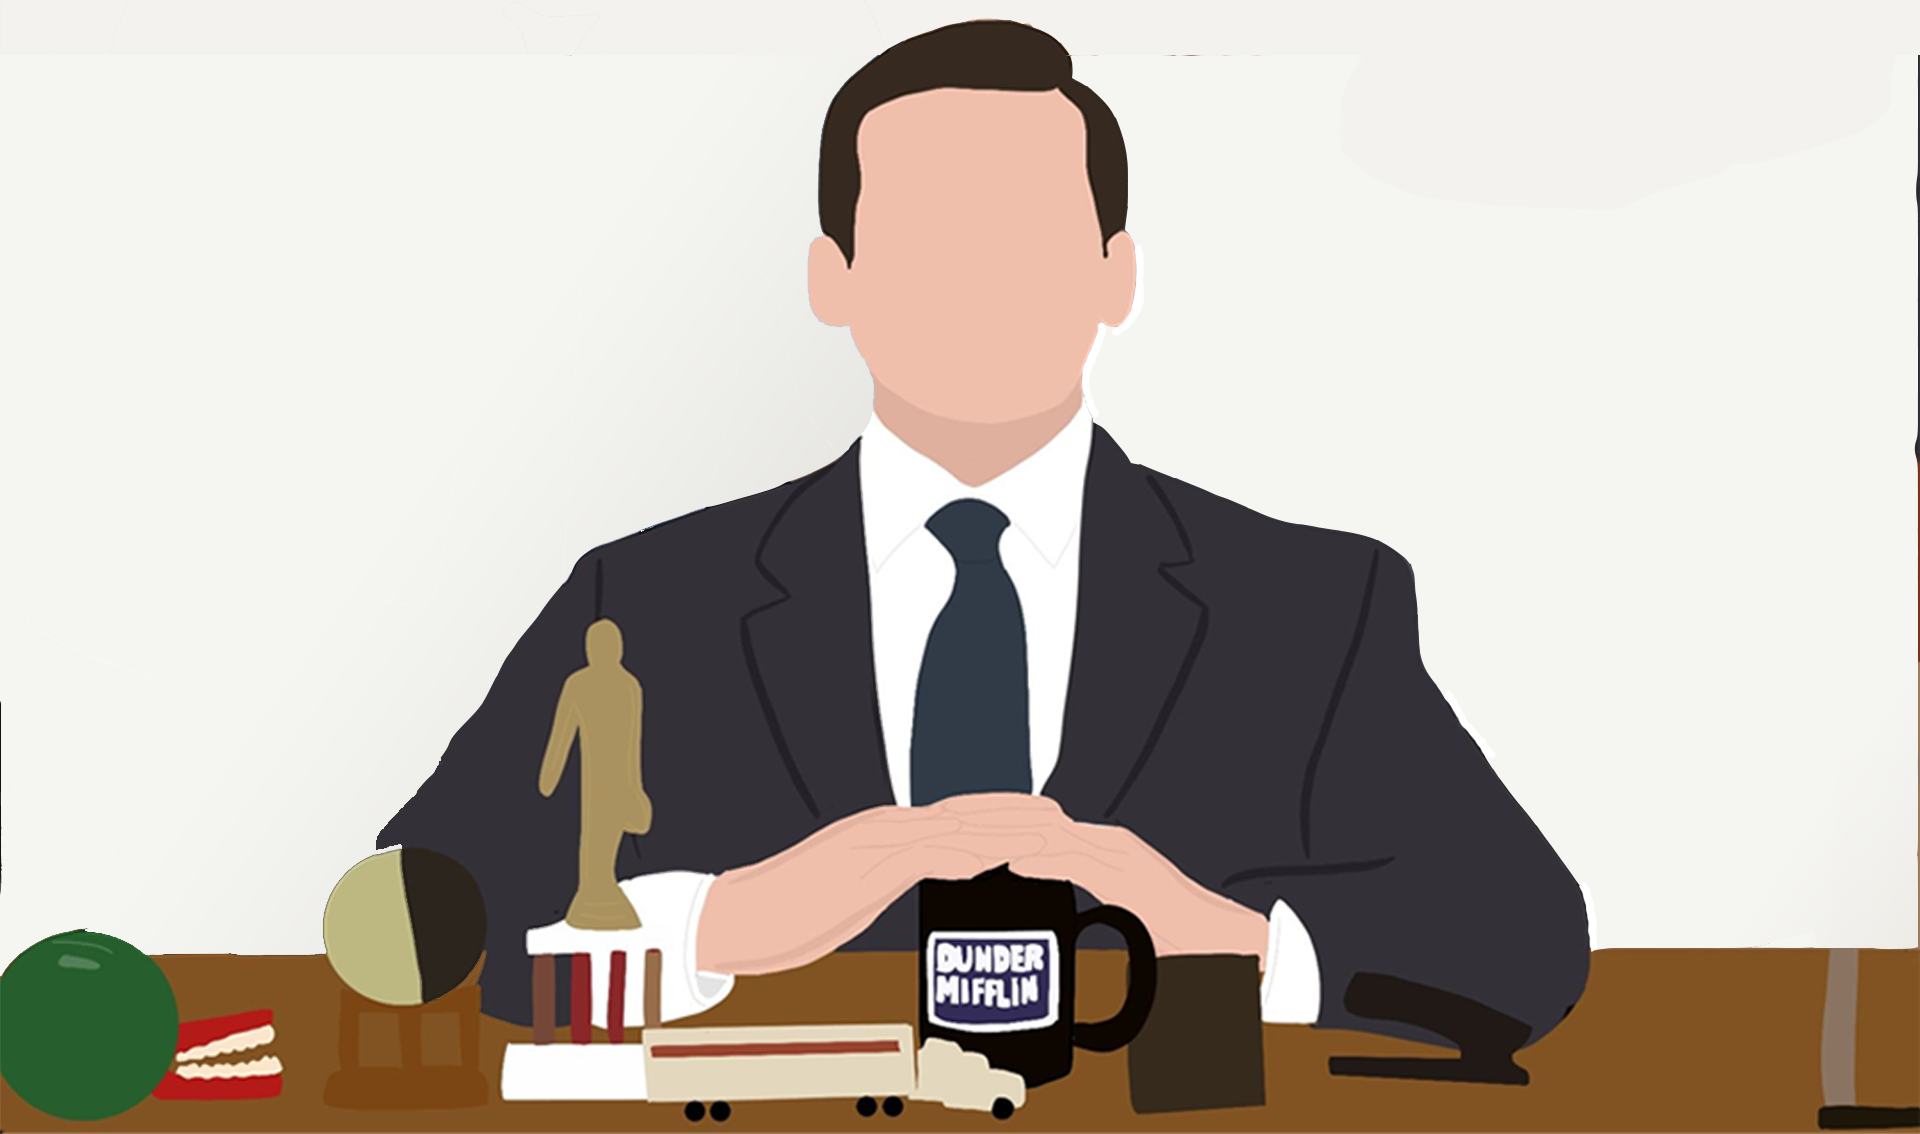
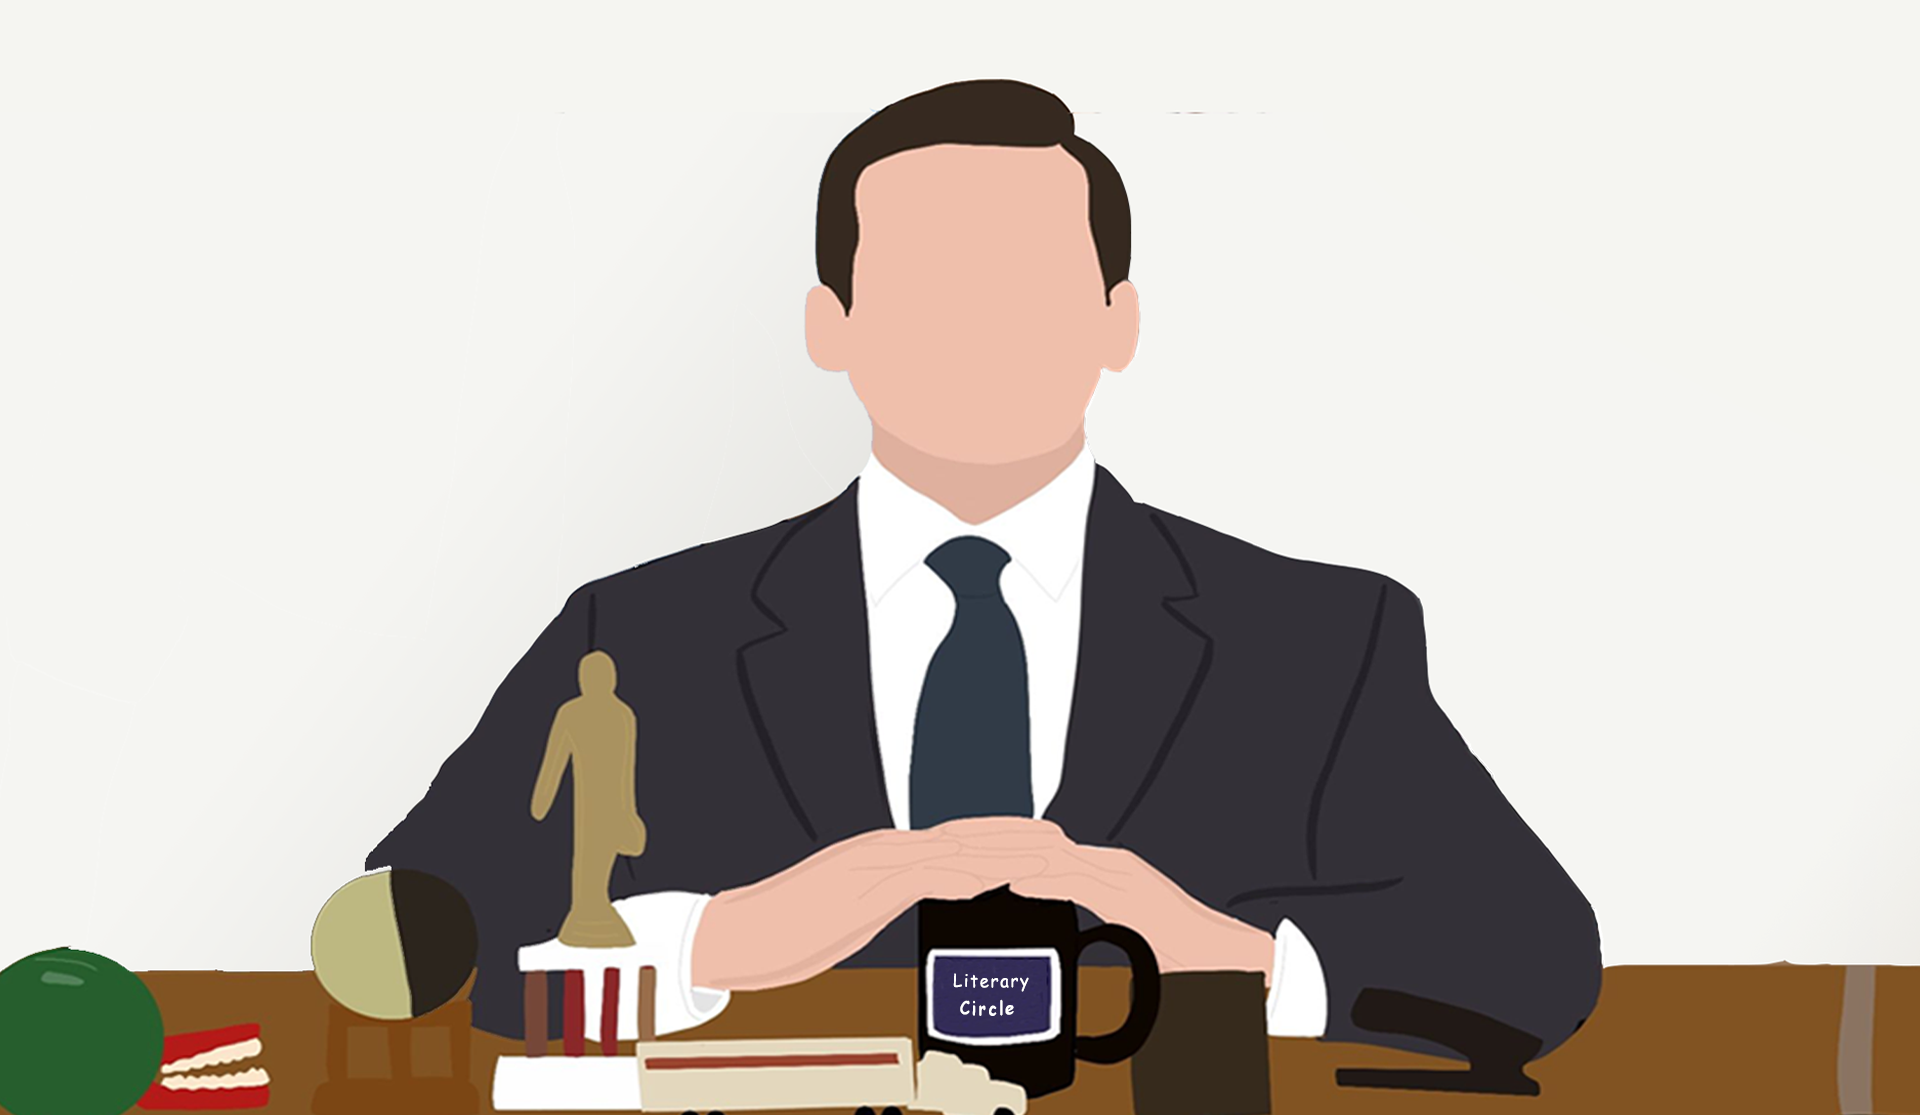
changed

diff --git a/client/src/components/AdminPanel/EditableComponent.js b/client/src/components/AdminPanel/EditableComponent.js
@@ -90,16 +90,16 @@ class EditableComponent extends Component {
       },
     });
   }
-  onFieldRemoveClick(index){
-      const newFields = [...this.state.value.fields];
-      newFields.splice(index,1);
-      this.setState({
-        ...this.state,
-        value: {
-          ...this.state.value,
-          fields: newFields,
-        },
-      });
+  onFieldRemoveClick(index) {
+    const newFields = [...this.state.value.fields];
+    newFields.splice(index, 1);
+    this.setState({
+      ...this.state,
+      value: {
+        ...this.state.value,
+        fields: newFields,
+      },
+    });
   }
   renderSubQuestionField(element, index) {
     const { type } = element;
@@ -226,28 +226,33 @@ class EditableComponent extends Component {
       const { options } = this.state.value;
 
       return (
-        <Form.Row>
-          <Form.Group as={Col}>
-            <Form.Label as="legend" sm={2}>
-              Minimum Value
-            </Form.Label>
-            <Form.Control
-              value={options[0]}
-              type="Number"
-              onChange={(e) => this.onChangeOptionName(e.target.value, 0)}
-            />
-          </Form.Group>
-          <Form.Group as={Col}>
-            <Form.Label as="legend">Maximum Value</Form.Label>
-            <Form.Control
-              value={options[1]}
-              type="Number"
-              onChange={(e) => {
-                this.onChangeOptionName(e.target.value, 1);
-              }}
-            />
-          </Form.Group>
-        </Form.Row>
+        <Form.Group as={Row}>
+          <Form.Label as="legend" column sm={2}>
+            Options
+          </Form.Label>
+          <Row sm={10}>
+            <Form.Group as={Col}>
+              <Form.Label as="legend" column >
+                Minimum Value
+              </Form.Label>
+              <Form.Control
+                value={options[0]}
+                type="Number"
+                onChange={(e) => this.onChangeOptionName(e.target.value, 0)}
+              />
+            </Form.Group>
+            <Form.Group as={Col}>
+              <Form.Label column as="legend">Maximum Value</Form.Label>
+              <Form.Control
+                value={options[1]}
+                type="Number"
+                onChange={(e) => {
+                  this.onChangeOptionName(e.target.value, 1);
+                }}
+              />
+            </Form.Group>
+          </Row>
+        </Form.Group>
       );
     } else {
       // type of subquestion :
@@ -306,7 +311,7 @@ class EditableComponent extends Component {
     this.props.deleteFormElement(this.state.value._id);
   }
   onClickSave() {
-      console.log(this.state.value);
+    console.log(this.state.value);
     this.props.editFormElement(this.state.value);
   }
   onFileUpload(e) {
@@ -326,7 +331,7 @@ class EditableComponent extends Component {
     reader.readAsDataURL(file);
   }
   render() {
-    const { content,_id } = this.state.value;
+    const { content, _id } = this.state.value;
     // console.log(this.state);
     return (
       <div className="EditableComponent">

diff --git a/client/public/index.html b/client/public/index.html
@@ -2,8 +2,8 @@
 <html lang="en">
   <head>
     <meta charset="utf-8" />
-    <link rel="icon" href="%PUBLIC_URL%/favicon.ico" />
     <meta name="viewport" content="width=device-width, initial-scale=1" />
+    <link rel="icon" type="image/png" href="favicon.ico"/>
     <meta name="theme-color" content="#000000" />
     <meta
       name="description"
@@ -14,12 +14,12 @@
       href="https://fonts.googleapis.com/css2?family=Marcellus&display=swap"
       rel="stylesheet"
     />
-    <link rel="apple-touch-icon" href="%PUBLIC_URL%/logo192.png" />
     <!--
       manifest.json provides metadata used when your web app is installed on a
       user's mobile device or desktop. See https://developers.google.com/web/fundamentals/web-app-manifest/
     -->
     <link rel="manifest" href="%PUBLIC_URL%/manifest.json" />
+    
     <!--
       Notice the use of %PUBLIC_URL% in the tags above.
       It will be replaced with the URL of the `public` folder during the build.
@@ -29,7 +29,7 @@
       work correctly both with client-side routing and a non-root public URL.
       Learn how to configure a non-root public URL by running `npm run build`.
     -->
-    <title>React App</title>
+    <title>Literary Circle : Auditions</title>
   </head>
   <body>
     <noscript>You need to enable JavaScript to run this app.</noscript>

diff --git a/client/src/components/Profile.js b/client/src/components/Profile.js
@@ -38,13 +38,11 @@ function Profile(props) {
   console.log(user);
   return (
     <div class="Profile">
-      <Row>
-        <Col md={3} lg={2}>
+        <Col>
           <div className="profile_photo">
             <img src={user.image} className="photo" />
           </div>
         </Col>
-        <Col md={9} lg={10}>
           {arr.map((element, index) => {
             //   console.log(element, form[element]);
             const Name = `${capitalizeFirstLetter(element)}${
@@ -79,8 +77,6 @@ function Profile(props) {
               <span className="google_text">EDIT</span>
             </Link>
           </div>
-        </Col>
-      </Row>
     </div>
   );
 }

diff --git a/client/src/components/Profile.css b/client/src/components/Profile.css
@@ -1,5 +1,5 @@
 .Profile {
-  width: 400px;
+  width: 500px;
 }
 
 .button-edit .btn {
@@ -15,9 +15,9 @@
   color: rgb(102 102 119);
 }
 
-@media only screen and (max-width: 400px) {
+@media only screen and (max-width: 500px) {
   .Profile {
-    width: 300px;
+    width: 350px;
     font-size: 0.8rem;
   }
 }
@@ -42,5 +42,17 @@
 @media (min-width: 768px) {
   .Profile .photo {
     margin-right: 20px;
+  }
+}
+
+@media only screen and (max-width: 320px) {
+  .Profile {
+    width: 300px;
+    font-size: 0.7rem;
+  }
+  .Profile .photo {
+    border-radius: 50%;
+    transform: scale(1.1);
+    border: 2px groove rgb(235, 221, 197);
   }
 }

diff --git a/client/src/components/AdminPanel/RenderComponent.css b/client/src/components/AdminPanel/RenderComponent.css
@@ -1,3 +1,11 @@
-.render_component .image{
-    max-height : 300px;
+.render_component .image {
+  max-width: 40vw;
+  max-height: 35vh;
+  object-fit: contain;
+  margin: 0 auto;
+  margin-bottom: 20px;;
+}
+.render_component {
+  display: flex;
+  flex-direction: column;
 }

diff --git a/client/src/components/AdminPanel/FormComponent.css b/client/src/components/AdminPanel/FormComponent.css
@@ -6,10 +6,10 @@
   width: 50%;
   text-align: center;
   color: white;
-  color: black;
 }
 
 .form-component .nav-link.active {
   background-color: #f9f4ef;
   border-color: transparent;
+  color: black
 }
